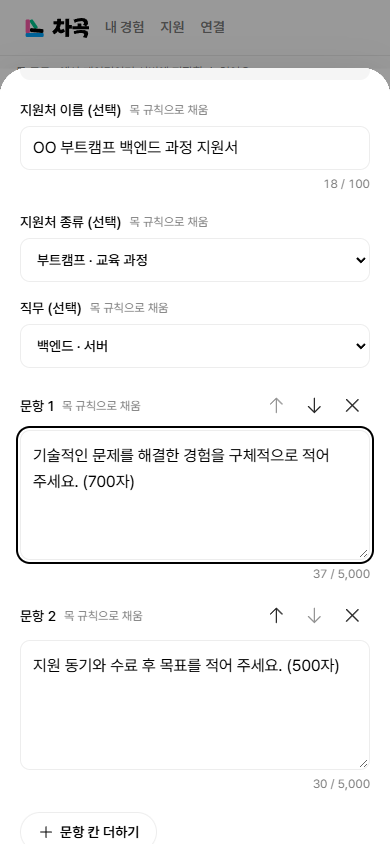
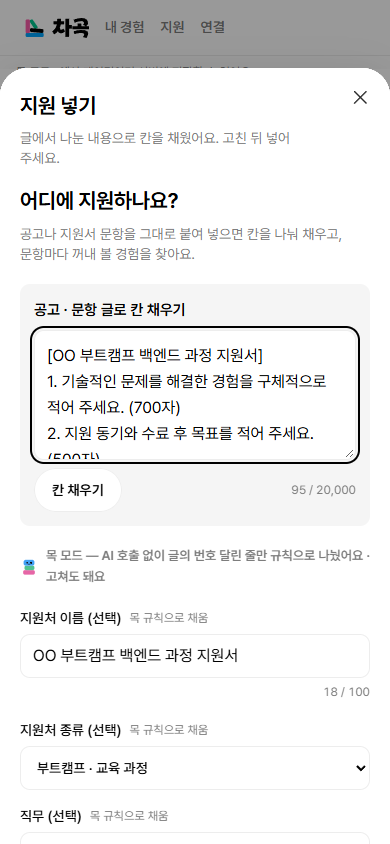
feat(entrance): 지원 넣기를 시안 6 처럼 붙여 넣기부터 시작하게 (#87)
폼이 주인공이면 칸을 손으로 채워야 할 것처럼 보여서, 시안의 새 지원서
대화상자처럼 붙여 넣기를 첫 입력으로 올렸다. 예시는 그 아래로 내리고
채운 뒤엔 숨긴다. 채운 뒤엔 차곡이와 한 줄
「AI 가 나눠 채웠어요 · 고쳐도 돼요」를 보인다. 칸별 꼬리표는 이슈의
완료 조건이라 그대로 둔다.

diff --git a/src/components/questions/application-form.tsx b/src/components/questions/application-form.tsx
@@ -5,6 +5,7 @@ import { ArrowDownIcon, ArrowUpIcon, ListChecksIcon, PlusIcon, XIcon } from "@ph
 import { Button } from "@/components/ui/button";
 import { CommonQuestionPicker } from "./common-question-picker";
 import { ParseFailureNotice, useApplicationParse } from "./application-parse";
+import { Mascot } from "./chagok-panel";
 import { MAX_PARSE_TEXT_LENGTH, type ParsedApplication } from "@/lib/api/entrance";
 import { ApiError } from "@/lib/api/errors";
 import { isMockMode } from "@/lib/api/http";
@@ -80,6 +81,7 @@ export function ApplicationForm({ onSubmit, onCancel, initialText = "", prefill,
     setFilled(result); setError(null);
   };
   const noQuestions = !!filled && !filled.questions.length && texts.every(t => !t.trim());
+  const filledAny = !!filled && !!(filled.organization || filled.organizationType || filled.jobRole || filled.questions.length);
 
   return (
     <form className="grid gap-5" aria-busy={saving || parse.parsing} onSubmit={async event => {
@@ -100,34 +102,34 @@ export function ApplicationForm({ onSubmit, onCancel, initialText = "", prefill,
     }}>
       <div className="grid gap-1.5">
         <h2 className="m-0 text-[21px] font-[650] tracking-[-0.3px]">어디에 지원하나요?</h2>
-        <p className="m-0 text-sm text-muted">지원서의 문항을 순서대로 넣으면 문항마다 꺼내 볼 경험을 찾아요.</p>
-      </div>
-      <div className="grid gap-2">
-        <span className="text-[13px] font-medium text-muted">예시 문항으로 시작하기</span>
-        <div className="flex flex-wrap gap-2">
-          {EXAMPLES.map(sample => (
-            <Button key={sample.label} type="button" variant="secondary" size="sm" className="min-h-11" disabled={saving} onClick={() => {
-              setOrganization(prev => prev || sample.organization);
-              // 비어 있는 첫 칸에, 없으면 새 칸에
-              setTexts(prev => { const at = prev.findIndex(t => !t.trim()); if (at >= 0) return prev.map((t, j) => (j === at ? sample.text : t)); return prev.length < MAX_QUESTIONS_PER_SUBMIT ? [...prev, sample.text] : prev; });
-              setError(null);
-            }}>{sample.label}</Button>
-          ))}
-        </div>
+        <p className="m-0 text-sm text-muted">공고나 지원서 문항을 그대로 붙여 넣으면 칸을 나눠 채우고, 문항마다 꺼내 볼 경험을 찾아요.</p>
       </div>
       <fieldset disabled={saving} className="m-0 grid min-w-0 gap-5 border-0 p-0">
         <div className="grid gap-2 rounded-sm bg-surface-soft p-3.5">
-          <label htmlFor="application-paste" className="text-sm font-medium">공고 · 문항 글로 칸 채우기</label>
-          <textarea id="application-paste" rows={3} value={paste} disabled={parse.parsing} onChange={e => { setPaste(e.target.value); parse.clear(); }} className={`${field} resize-y`} placeholder="공고나 지원서 문항을 그대로 붙여 넣으면 지원처 · 종류 · 직무 · 문항을 나눠 채워요. 글에 적힌 문항만 찾아요." />
+          <label htmlFor="application-paste" className="text-[15px] font-semibold">공고 · 문항 글로 칸 채우기</label>
+          <textarea id="application-paste" autoFocus={!initialText && !prefill} rows={4} value={paste} disabled={parse.parsing} onChange={e => { setPaste(e.target.value); parse.clear(); }} className={`${field} resize-y`} placeholder="예: [OO 부트캠프 백엔드 과정] 1. 기술적인 문제를 해결한 경험을 적어 주세요 (700자) 2. 지원 동기 … 글에 적힌 문항만 찾아요." />
           <div className="flex flex-wrap items-center justify-between gap-2">
-            <Button type="button" variant="secondary" className="min-h-11" disabled={parse.parsing || !paste.trim()} onClick={() => void fill()}>{parse.parsing ? "나누는 중…" : "칸 채우기"}</Button>
+            <Button type="button" variant={filled ? "secondary" : "default"} className="min-h-11" disabled={parse.parsing || !paste.trim()} onClick={() => void fill()}>{parse.parsing ? "나누는 중…" : "칸 채우기"}</Button>
             <span className={`text-xs tabular-nums ${paste.length > MAX_PARSE_TEXT_LENGTH ? "text-error" : "text-muted"}`}>{paste.length > 0 && `${paste.length.toLocaleString("ko-KR")} / 20,000`}</span>
           </div>
           {parse.parsing && <p role="status" className="m-0 text-sm text-muted">글을 읽고 지원처와 문항을 나누고 있어요…</p>}
           {parse.failure && <ParseFailureNotice failure={parse.failure} onRetry={() => void fill()} onManual={() => { insert([parse.failure!.text]); parse.clear(); }} />}
-          {filled && isMockMode() && <p className="m-0 text-xs text-muted">목 모드 — AI 호출 없이 글의 번호 달린 줄만 규칙으로 나눴어요.</p>}
           {noQuestions && <p role="status" className="m-0 text-sm text-body">글에서 문항을 찾지 못했어요. 문항 칸에 직접 넣어 주세요.</p>}
         </div>
+        {!filled && <div className="grid gap-2">
+          <span className="text-[13px] font-medium text-muted">예시 문항으로 시작하기</span>
+          <div className="flex flex-wrap gap-2">
+            {EXAMPLES.map(sample => (
+              <Button key={sample.label} type="button" variant="secondary" size="sm" className="min-h-11" disabled={saving} onClick={() => {
+                setOrganization(prev => prev || sample.organization);
+                // 비어 있는 첫 칸에, 없으면 새 칸에
+                setTexts(prev => { const at = prev.findIndex(t => !t.trim()); if (at >= 0) return prev.map((t, j) => (j === at ? sample.text : t)); return prev.length < MAX_QUESTIONS_PER_SUBMIT ? [...prev, sample.text] : prev; });
+                setError(null);
+              }}>{sample.label}</Button>
+            ))}
+          </div>
+        </div>}
+        {filledAny && <p className="m-0 flex items-center gap-2 text-[13px] font-semibold text-muted"><Mascot size={18} />{isMockMode() ? "목 모드 — AI 호출 없이 글의 번호 달린 줄만 규칙으로 나눴어요 · 고쳐도 돼요" : "AI 가 나눠 채웠어요 · 고쳐도 돼요"}</p>}
         <label className="grid gap-1.5 text-sm font-medium">
           <span className="flex flex-wrap items-center gap-2">지원처 이름 (선택){filled?.organization && organization === filled.organization && <FilledTag />}</span>
           <input aria-label="지원처 이름 (선택)" autoComplete="organization" maxLength={MAX_ORGANIZATION_LENGTH} value={organization} onChange={e => setOrganization(e.target.value)} className={`${field} min-h-11 py-0`} placeholder="동아리 · 부트캠프 · 대외활동 · 회사 이름" />
@@ -163,7 +165,7 @@ export function ApplicationForm({ onSubmit, onCancel, initialText = "", prefill,
                   <Button type="button" variant="ghost" size="icon" aria-label={`문항 ${i + 1} 빼기`} onClick={() => setTexts(prev => prev.filter((_, j) => j !== i))}><XIcon /></Button>
                 </span>}
               </div>
-              <textarea id={`question-${i}`} autoFocus={i === 0} rows={4} maxLength={MAX_QUESTION_LENGTH} value={text} onChange={e => set(i, e.target.value)} className={`${field} resize-y`} placeholder="문항을 붙여 넣어 주세요. 글자 수 · 공고 일부를 함께 넣어도 괜찮아요." />
+              <textarea id={`question-${i}`} autoFocus={i === 0 && !!initialText && !prefill} rows={4} maxLength={MAX_QUESTION_LENGTH} value={text} onChange={e => set(i, e.target.value)} className={`${field} resize-y`} placeholder="문항을 붙여 넣어 주세요. 글자 수 · 공고 일부를 함께 넣어도 괜찮아요." />
               <span className="text-right text-xs font-normal text-muted tabular-nums">{text.length.toLocaleString("ko-KR")} / 5,000</span>
             </li>
           ))}
